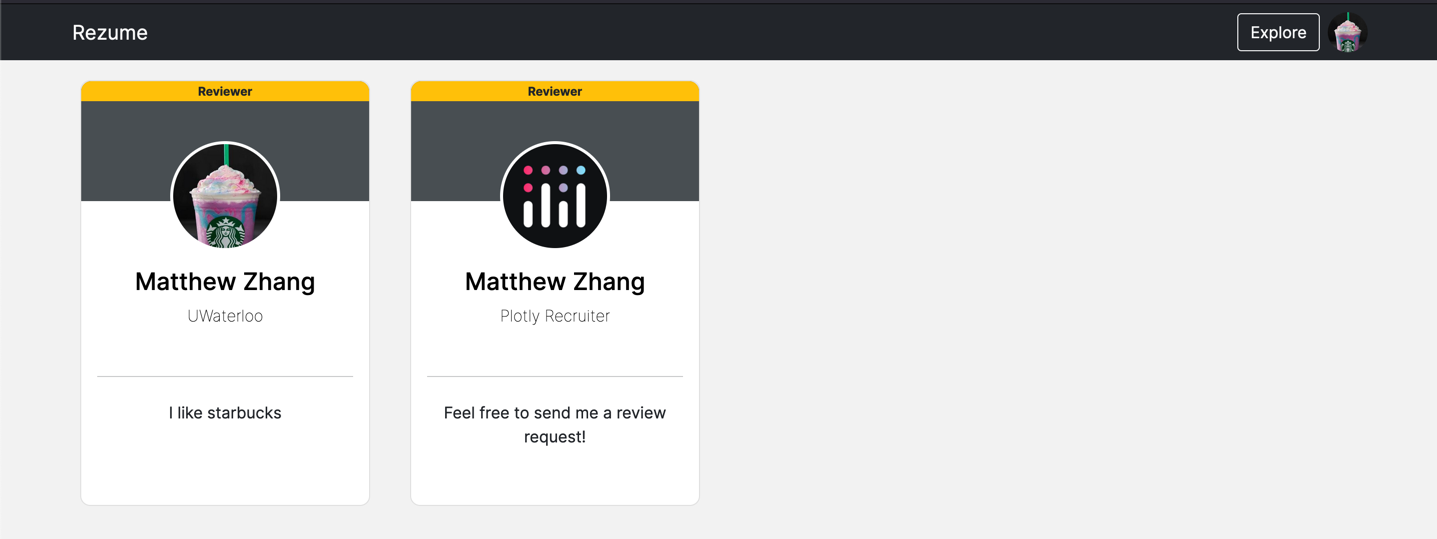
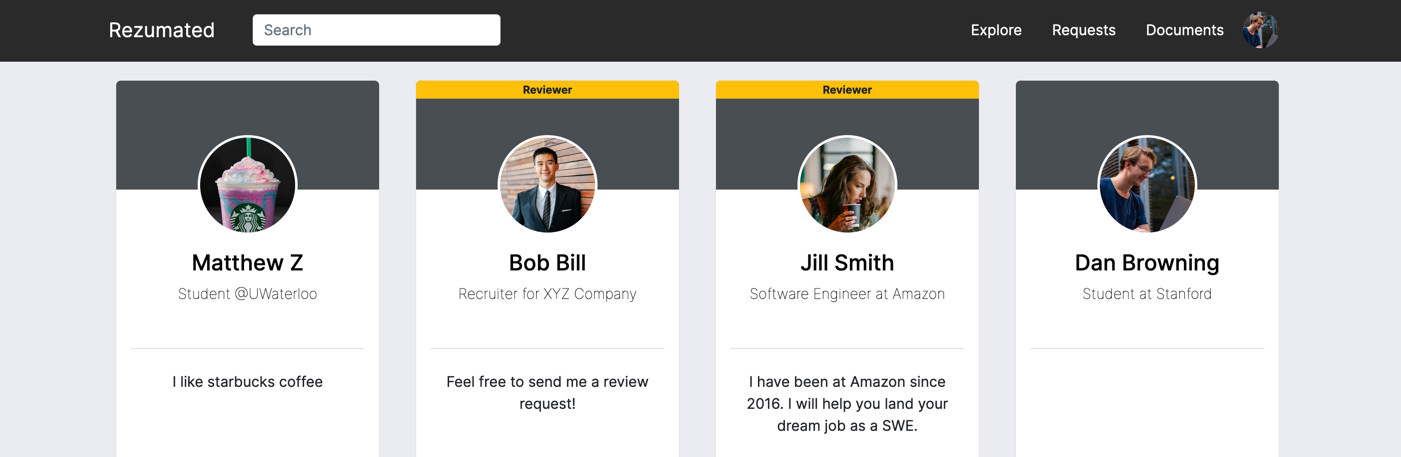
Colour adjustments and new home page image

diff --git a/web_app/templates/general/user_home.html b/web_app/templates/general/user_home.html
@@ -4,12 +4,12 @@
         <div class="row text-center">
             {% for user in users.items %}
                 <div class="col-md-3 mb-5 mb-md-0" style="padding:20px;">
-                    <div class="card testimonial-card" style="border-radius: 10px;">
+                    <div class="card testimonial-card" style="border-radius: 5px;">
                         {% if user.value == '1' %}
-                            <span style="height: 20px; margin-bottom: -20px; border-radius: 10px 10px 0px 0px; z-index: 2"
+                            <span style="height: 20px; margin-bottom: -20px; border-radius: 5px 5px 0px 0px; z-index: 2"
                                   class="badge bg-warning text-dark">Reviewer</span>
                         {% endif %}
-                        <div class="card-up" style="background-color: #484e53; border-radius:10px 10px 0px 0px;"></div>
+                        <div class="card-up" style="background-color: #484e53; border-radius:5px 5px 0px 0px;"></div>
                         <div class="avatar mx-auto bg-white">
                             <a href={{ url_for('general.user', username=user.username) }}>
                                 <img
@@ -19,7 +19,7 @@
                             </a>
 
                         </div>
-                        <div class="card-body" style="border-radius: 10px;">
+                        <div class="card-body" style="border-radius: 5px;">
                             <h4><a class="profile-link" href={{ url_for('general.user', username=user.username) }}>
                                 {{ user.first_name }} {{ user.last_name }}
                             </a></h4>
@@ -37,16 +37,16 @@
             {% endfor %}
             <nav aria-label="Page navigation example">
                 <ul class="pagination justify-content-center" style="margin-top: 30px">
-                    <li class="page-item"><a class="page-link"
+                    <li class="page-item"><a class="page-link" style="color: #193453;"
                                              href="{{ url_for('general.home', page=users.prev_num) }}">Previous</a></li>
                     {% for page in users.iter_pages(left_edge=1, right_edge=1, left_current=2, right_current=3) %}
                         {% if page %}
                             {% if page == users.page %}
-                                <li class="page-item active"><a class="page-link"
+                                <li class="page-item active"><a class="page-link" style="background-color: #193453;"
                                                                 href="{{ url_for('general.home', page=page) }}">{{ page }}</a>
                                 </li>
                             {% else %}
-                                <li class="page-item"><a class="page-link"
+                                <li class="page-item"><a class="page-link" style="color: #193453;"
                                                          href="{{ url_for('general.home', page=page) }}">{{ page }}</a>
                                 </li>
                             {% endif %}
@@ -54,7 +54,7 @@
                             <li class="page-item disabled"><a class="page-link">...</a></li>
                         {% endif %}
                     {% endfor %}
-                    <li class="page-item"><a class="page-link"
+                    <li class="page-item"><a class="page-link" style="color: #193453;"
                                              href="{{ url_for('general.home', page=users.next_num) }}">Next</a></li>
                 </ul>
             </nav>

diff --git a/web_app/templates/base.html b/web_app/templates/base.html
@@ -91,7 +91,7 @@
         integrity="sha384-ka7Sk0Gln4gmtz2MlQnikT1wXgYsOg+OMhuP+IlRH9sENBO0LRn5q+8nbTov4+1p"
         crossorigin="anonymous"></script>
 <script src="https://ajax.googleapis.com/ajax/libs/jquery/2.1.1/jquery.min.js"></script>
-<body style="background-color: #f2f2f2; margin-top: 70px">
+<body style="background-color: #eaecf1; margin-top: 70px">
 
 {% block content %}
 

diff --git a/web_app/general/routes.py b/web_app/general/routes.py
@@ -54,7 +54,6 @@ def home(page=None):
 
         if search_form.validate_on_submit():
             search = search_form.search.data
-            print(search)
             users = users.filter(
                 (func.lower(User.first_name).like(func.lower(f"%{search}%")))
                 | func.lower(User.last_name).like(func.lower(f"%{search}%"))
@@ -67,8 +66,7 @@ def home(page=None):
         pfp_file = f"images/{current_user.pfp_id}.jpg"
         pfp_url = generate_url(BUCKET, pfp_file)
 
-        users = users.paginate(page, 1, True)
-        print(users)
+        users = users.paginate(page, 8, True)
         return render_template(
             "general/user_home.html",
             users=users,
@@ -192,8 +190,8 @@ def user_files(username, filter):
                 current_user.files.append(assoc)
                 db.session.add(current_user)
             db.session.commit()
-        except Exception as e:
-            print(e)
+        except:
+            pass
         return redirect(
             url_for(
                 "general.user_files",
@@ -382,7 +380,6 @@ def before_request():
 
 @bp.context_processor
 def current_user_info():
-    print(current_user.is_authenticated)
     if current_user.is_authenticated:
         return {
             "account_type": Settings.query.filter_by(
